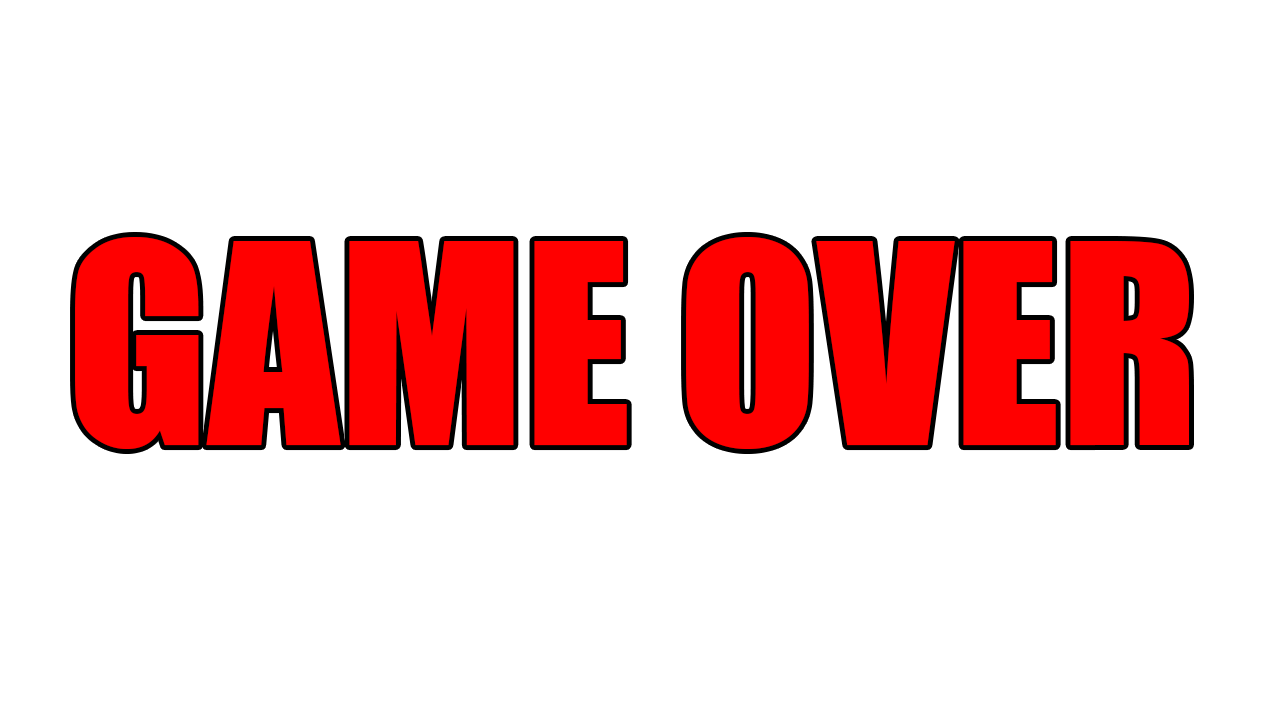
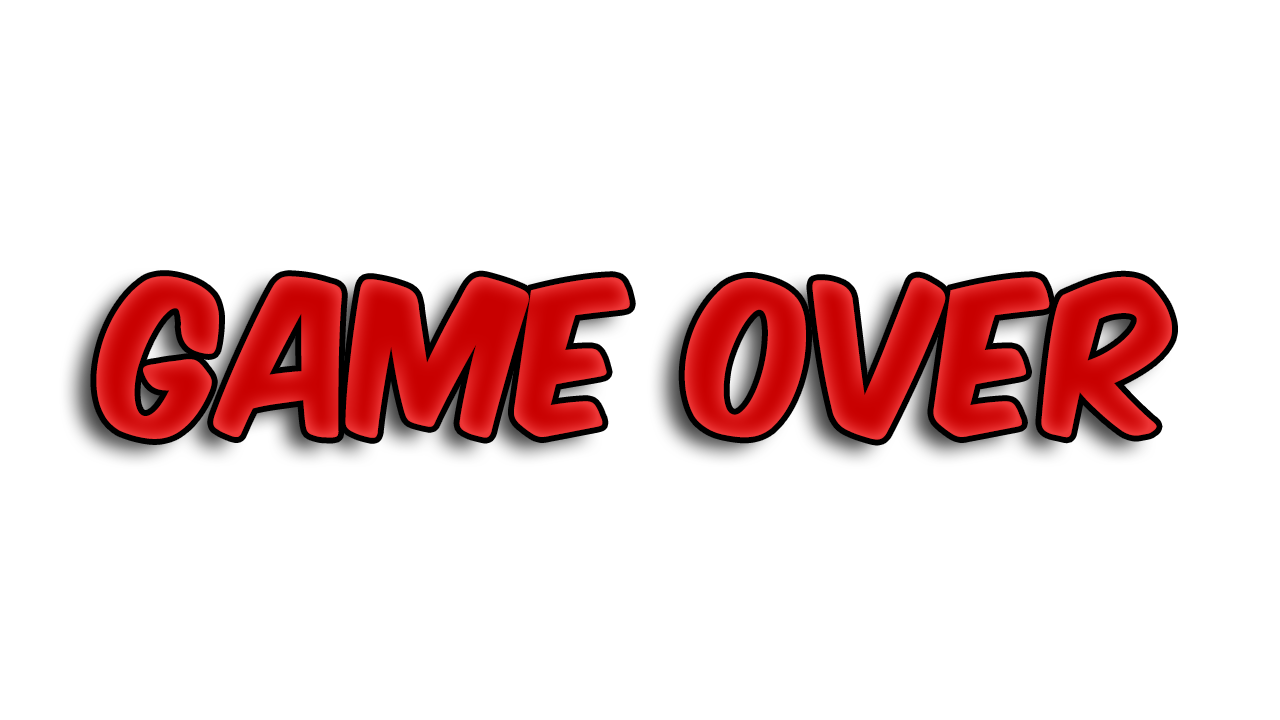
Fixed rage effect after revive, fixed first ragdoll bug, changed restart button, changed game over font

Changed region(s): [[0.0312, 0.3056, 0.9375, 0.6417]]

diff --git a/Assets/Scripts/GameOver.cs b/Assets/Scripts/GameOver.cs
@@ -13,7 +13,9 @@ public class GameOver : MonoBehaviour
     public static Image gameOverImage;
     Button restartButton;
     public GameObject[] gameUI;
+    [SerializeField] GameObject backToMenu;
     public static GameObject[] imageUI;
+    public static GameObject menuButton;
 
     // Start is called before the first frame update
     void Start()
@@ -25,7 +27,7 @@ public class GameOver : MonoBehaviour
         
         joystickVert = GameObject.FindGameObjectWithTag("JoystickVert");
         imageUI = gameUI;
-        
+        menuButton = backToMenu;
     }
 
     // Update is called once per frame
@@ -46,9 +48,10 @@ public class GameOver : MonoBehaviour
             var tempColor = gameOverImage.color;
             tempColor.a += 0.2f * Time.deltaTime;
             gameOverImage.color = tempColor;
-
+            menuButton.SetActive(true);
             MosqitController mosqitController = GameObject.FindGameObjectWithTag("Player").GetComponent<MosqitController>();
             mosqitController.DeadSound();
+            
         }
     }
 

diff --git a/Assets/Scripts/RagdollToggle3.cs b/Assets/Scripts/RagdollToggle3.cs
@@ -22,7 +22,7 @@ public class RagdollToggle3 : MonoBehaviour
     public TextMeshProUGUI deathText;
     float deathcount;
     bool ragdollEnabled;
-
+    AdMobScript admob;
 
 
     Collider[] childrenCollider;
@@ -51,6 +51,7 @@ public class RagdollToggle3 : MonoBehaviour
         colliderCenter = capsuleCollider.center;
         collided = false;
         reviveButton = GameObject.FindGameObjectWithTag("ReviveButton").GetComponent<Button>();
+        admob = GameObject.FindGameObjectWithTag("AdMob").GetComponent<AdMobScript>();
 
         ChangePlayerState();
         
@@ -151,6 +152,7 @@ public class RagdollToggle3 : MonoBehaviour
             LevelSoundManager.audioSource.PlayOneShot(LevelSoundManager._hit);
         }
 
+        admob.RequestBanner();
         Vibration.Vibrate(40);
         GameObject blood = Instantiate(Resources.Load("CFX2_Blood", typeof(GameObject)), transform.position, Quaternion.identity) as GameObject;
         IsDead = true;

diff --git a/Assets/Scripts/RageLight.cs b/Assets/Scripts/RageLight.cs
@@ -25,7 +25,7 @@ public class RageLight : MonoBehaviour
     [SerializeField] GameObject arrow1;
     [SerializeField] GameObject arrow2;
     [SerializeField] GameObject arrow4;
-
+    
     [SerializeField] GameObject rageEffect;
     [SerializeField] AudioClip rageSound;
     AudioSource audioSource;
@@ -137,7 +137,7 @@ public class RageLight : MonoBehaviour
 
     private void OnTriggerEnter(Collider plr)
     {
-        if (plr.tag == "Player")
+        if (plr.gameObject.name.Contains("Mosquito"))
         {
             isInLight = true;
         }

diff --git a/Assets/Scripts/restartGame.cs b/Assets/Scripts/restartGame.cs
@@ -25,6 +25,6 @@ public class restartGame : MonoBehaviour
     // Start is called before the first frame update
     public void RestartGame()
     {
-        GameManager.Instance.ChangeScene(GameManager.GameScene.Menu);
+        GameManager.Instance.ChangeScene(GameManager.GameScene.ADScene2);
     }
 }

diff --git a/Assets/Scripts/GameManager.cs b/Assets/Scripts/GameManager.cs
@@ -36,6 +36,7 @@ public class GameManager : MonoBehaviour
         Intro,
         ADScene1,
         Menu,
+        ADScene2,
         TheRoom,
         End,
         LastADScene
